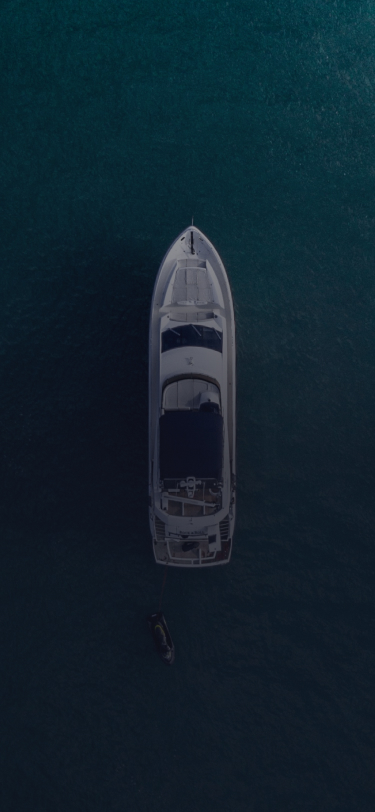
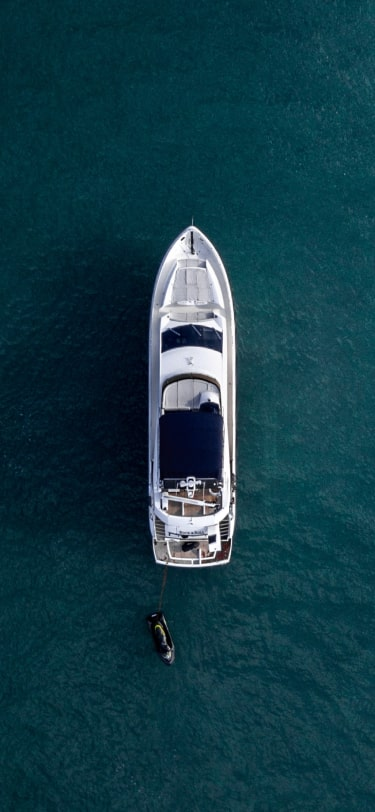
comressed images and updated bg position

diff --git a/src/css/hero.css b/src/css/hero.css
@@ -8,7 +8,7 @@
     ),
     url('../img/hero_bg_mob.jpg');
   background-repeat: no-repeat;
-  background-position: top center;
+  background-position: center center;
   background-size: cover;
   padding: 260px 10px 243px 10px;
 }
